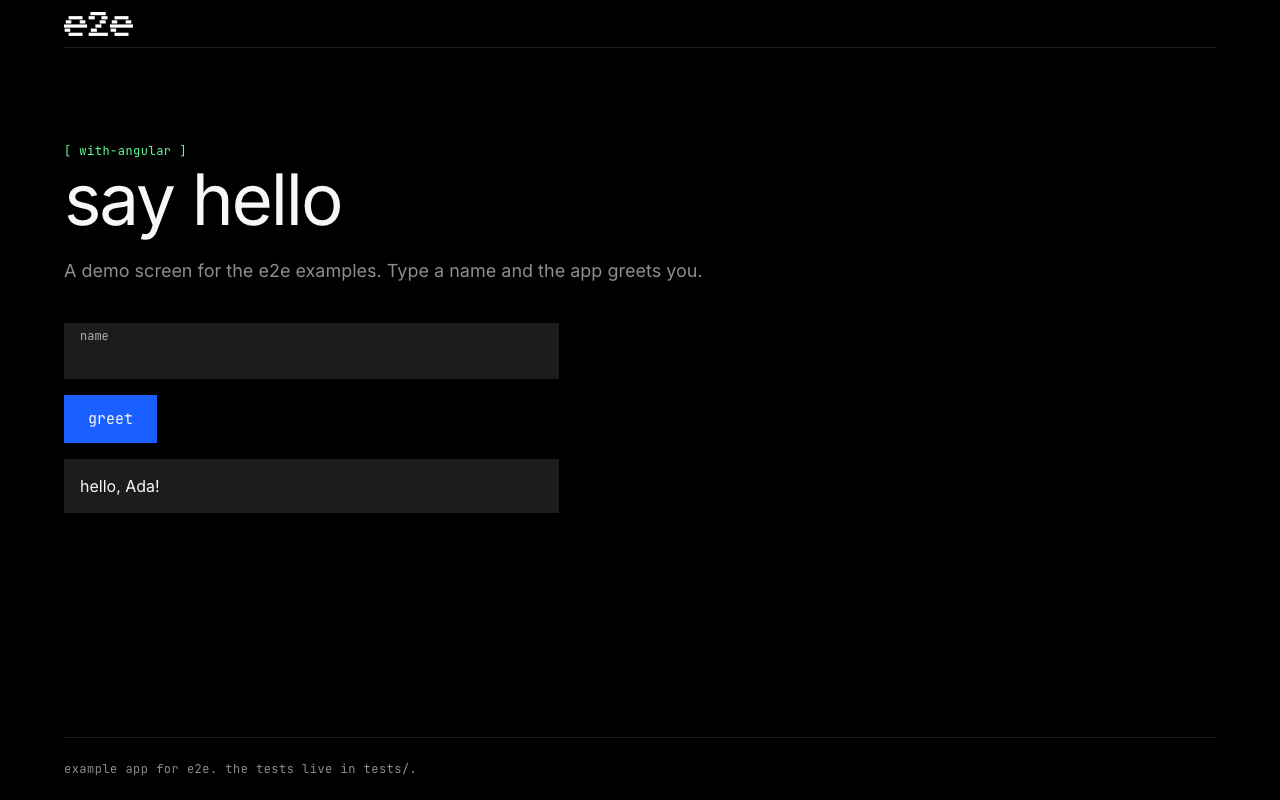
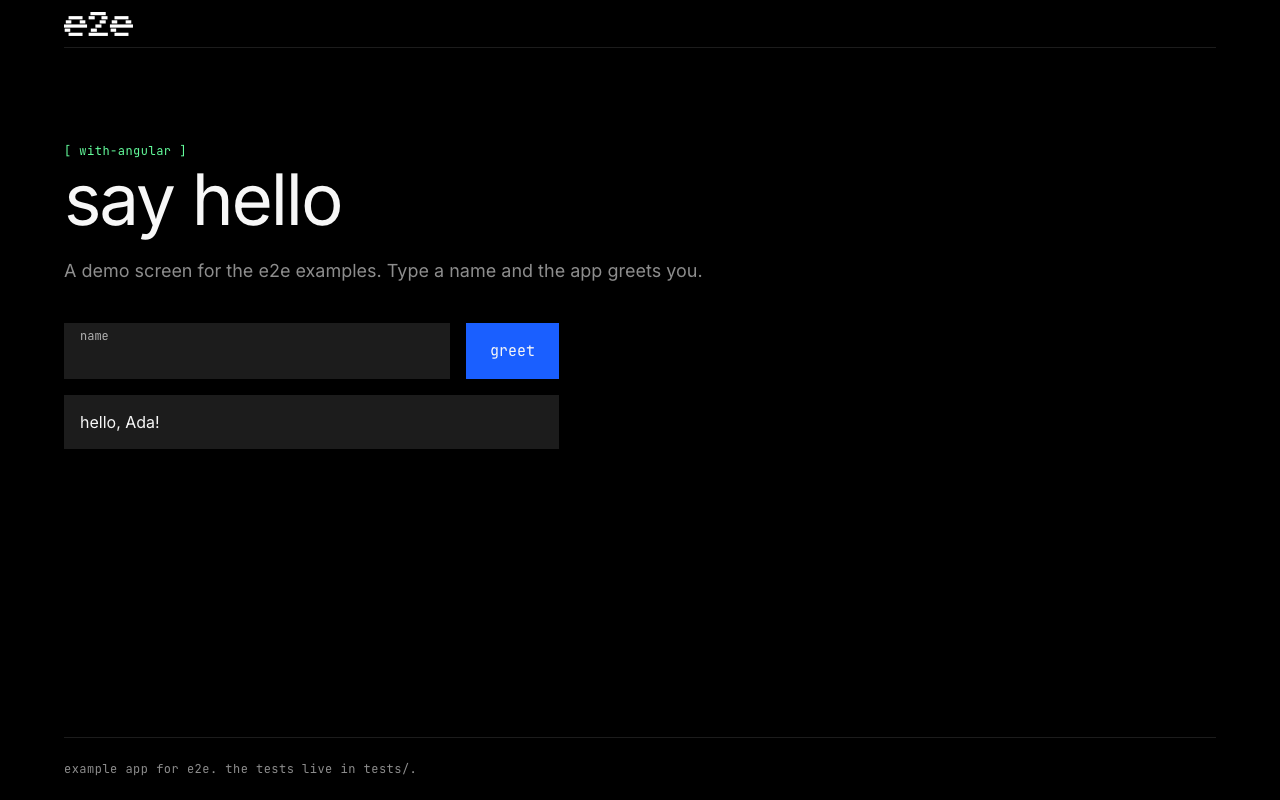
feat(examples): put the greet button beside the field from 768px up

Changed region(s): [[0.0312, 0.4062, 0.4375, 0.6562]]

diff --git a/examples/with-angular/src/styles.css b/examples/with-angular/src/styles.css
@@ -170,8 +170,19 @@ body {
     font-size: 71px;
   }
 
+  /* The field and the button share a row; the error and the greeting span it. */
+  .form {
+    display: grid;
+    grid-template-columns: minmax(0, 1fr) auto;
+  }
+
+  .error,
+  .status {
+    grid-column: 1 / -1;
+  }
+
   .button {
-    align-self: flex-start;
+    height: 56px;
   }
 }
 

diff --git a/examples/with-astro/src/styles/global.css b/examples/with-astro/src/styles/global.css
@@ -170,8 +170,19 @@ body {
     font-size: 71px;
   }
 
+  /* The field and the button share a row; the error and the greeting span it. */
+  .form {
+    display: grid;
+    grid-template-columns: minmax(0, 1fr) auto;
+  }
+
+  .error,
+  .status {
+    grid-column: 1 / -1;
+  }
+
   .button {
-    align-self: flex-start;
+    height: 56px;
   }
 }
 

diff --git a/examples/with-next/app/globals.css b/examples/with-next/app/globals.css
@@ -169,8 +169,19 @@ body {
     font-size: 71px;
   }
 
+  /* The field and the button share a row; the error and the greeting span it. */
+  .form {
+    display: grid;
+    grid-template-columns: minmax(0, 1fr) auto;
+  }
+
+  .error,
+  .status {
+    grid-column: 1 / -1;
+  }
+
   .button {
-    align-self: flex-start;
+    height: 56px;
   }
 }
 

diff --git a/examples/with-vite/src/styles.css b/examples/with-vite/src/styles.css
@@ -170,8 +170,19 @@ body {
     font-size: 71px;
   }
 
+  /* The field and the button share a row; the error and the greeting span it. */
+  .form {
+    display: grid;
+    grid-template-columns: minmax(0, 1fr) auto;
+  }
+
+  .error,
+  .status {
+    grid-column: 1 / -1;
+  }
+
   .button {
-    align-self: flex-start;
+    height: 56px;
   }
 }
 
